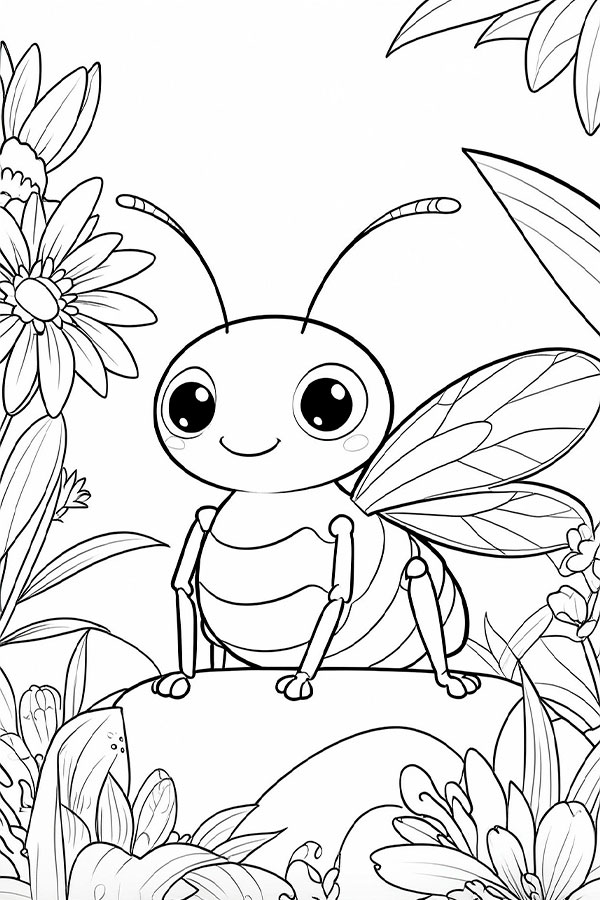
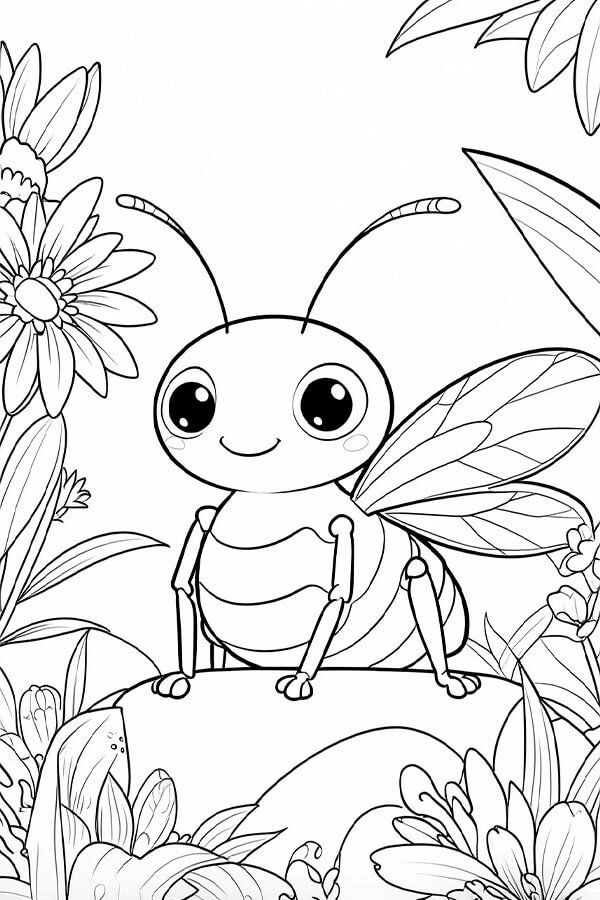
katink

Changed region(s): [[0.84, 0.9956, 0.87, 1.0], [0.78, 0.9956, 0.81, 1.0]]

diff --git a/SM/color/js/app.js b/SM/color/js/app.js
@@ -13,7 +13,7 @@ const CATEGORIES = {
         hasSubcategories: true,
         subcategories: {
             easy: { name: 'Легче', folder: 'animals/easy', count: 50 },
-            hard: { name: 'Сложнее', folder: 'animals/hard', count: 50 }
+            hard: { name: 'Сложнее', folder: 'animals/hard', count: 96 }
         }
     },
     people: {
